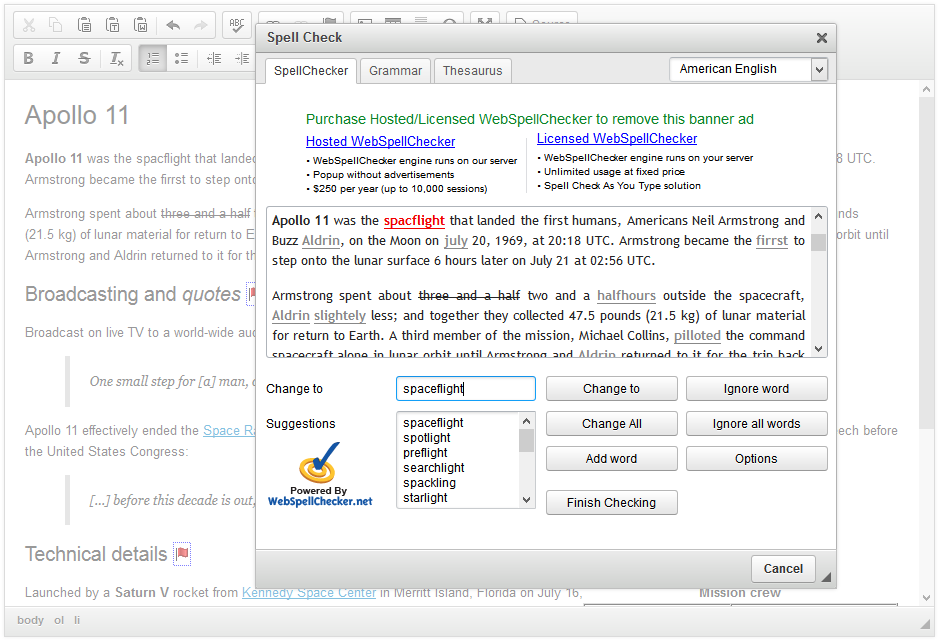
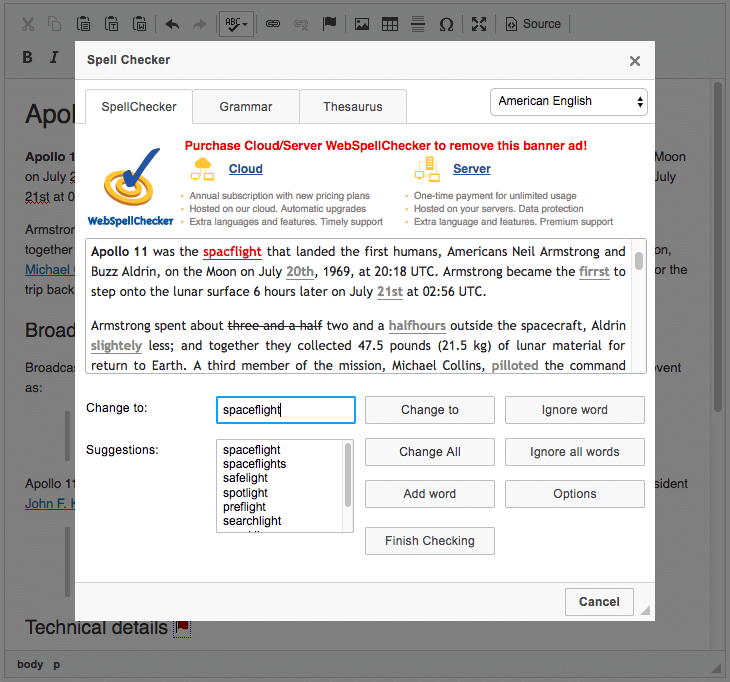
Spell checker article updated.

diff --git a/docs/guide/dev/features/spellcheck/README.md b/docs/guide/dev/features/spellcheck/README.md
@@ -12,7 +12,8 @@ For licensing, see LICENSE.md.
 
 # Spell Checking
 
-<info-box info=""> The out-of-the-box spell checking functionality is provided through plugins that are included in the Standard and Full presets available from the official CKEditor <a href="https://ckeditor.com/ckeditor-4/download/">Download</a> site. You can also {@link guide/dev/plugins/README add them to your custom build} with <a href="https://ckeditor.com/cke4/builder">online builder</a>.
+<info-box info="">
+    The out-of-the-box spell checking functionality is provided through plugins that are included in the Standard and Full presets available from the official CKEditor <a href="https://ckeditor.com/ckeditor-4/download/">Download</a> site. You can also {@link guide/dev/plugins/README add them to your custom build} with <a href="https://ckeditor.com/cke4/builder">online builder</a>.
 </info-box>
 
 CKEditor can be configured to use either native spell checking capabilities provided by the browser or to use an external spell checking web service.
@@ -21,7 +22,9 @@ CKEditor can be configured to use either native spell checking capabilities prov
 
 By default, browser native spell check functionality is disabled in the editor. Use the {@linkapi CKEDITOR.config.disableNativeSpellChecker CKEDITOR.config.disableNativeSpellChecker} configuration option to enable it:
 
-	config.disableNativeSpellChecker = false;
+```js
+config.disableNativeSpellChecker = false;
+```
 
 After reloading the editor you should be able to see the spelling corrections underlined in your editor content.
 
@@ -35,13 +38,13 @@ The [SpellCheckAsYouType (SCAYT)](https://ckeditor.com/cke4/addon/scayt) plugin 
 
 It is provided by [WebSpellChecker.net](http://www.webspellchecker.net/). It uses the WebSpellChecker.net web services, transferring the text to their servers and performing spell checking. This is a cross-browser solution.
 
-{@img assets/img/scayt_02.png}
+{@img assets/img/scayt_02.png Spell Check As You Type in CKEditor}
 
 ## Spell Checking in a Dialog Window
 
 The [WebSpellChecker](https://ckeditor.com/cke4/addon/wsc) plugin is another spell checking solution provided by [WebSpellChecker.net](http://www.webspellchecker.net/). It runs the check through a dialog window instead of marking misspelled words inline. Additionally, for some languages a Grammar Checker and Thesaurus feature is also available.
 
-{@img assets/img/wsc_01.png}
+{@img assets/img/wsc_01.png Spell Checker in the dialog window in CKEditor}
 
 ## Customization Options
 
@@ -49,7 +52,8 @@ Both plugins include numerous configuration options that let you customize the d
 language, number of SCAYT suggestions available or the content of the spell checker context menu and dialog window.
 You can find them on the {@linkapi CKEDITOR.config CKEDITOR.config} page, starting from `scayt_` and `wsc_`.
 
-<info-box hint=""> The out-of-the-box spell checking functionality is ad-supported. If you want to remove the ads, you can <a href="http://cksource.com/ckeditor/services#spellCheck">purchase a license here</a>.
+<info-box hint="">
+    The out-of-the-box spell checking functionality is ad-supported. If you want to remove the ads, you can <a href="https://ckeditor.com/contact/">purchase a license here</a>.
 </info-box>
 
 ## Spell Checking Demo
